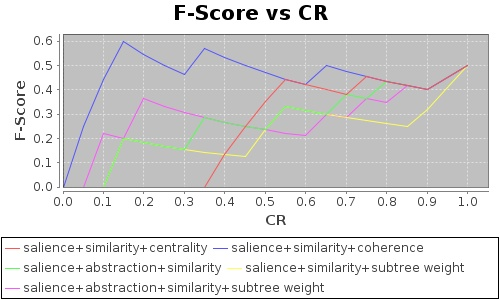
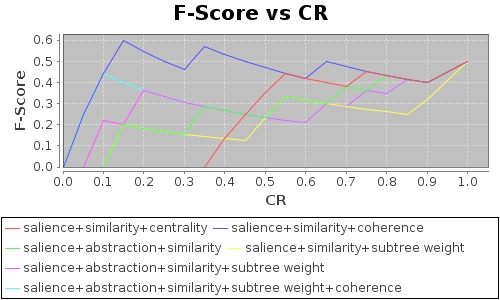
more combinations for rerank with similarity

diff --git a/OntologySummarization/src/fr/inria/wimmics/explanation/evaluation/test/DCGSurveyInference1Test.java b/OntologySummarization/src/fr/inria/wimmics/explanation/evaluation/test/DCGSurveyInference1Test.java
@@ -61,13 +61,14 @@ public class DCGSurveyInference1Test {
 	static String GEONAMES_SCHEMA_LOCATION = "rdf/ontology/geonames_ontology_v3.1.rdf";
 	
 	
-	static XYSeries soloCentralityNdcgCR = 								new XYSeries("salience");
-	static XYSeries soloReRankNdcgCR = 									new XYSeries("salience+coherence");
-	static XYSeries soloAbstractionNdcgCR = 							new XYSeries("salience+abstraction");
-	static XYSeries soloProofTreeSubtreeWeightNdcgCR = 					new XYSeries("salience+subtree weight");
-static XYSeries salienceAndAbstractAndSubtreeWeightNdcgCR = 			new XYSeries("salience+abstract+subtree weight");
-	static XYSeries salientAbstractionReRankNdcgCr = 					new XYSeries("salience+abstract+coherence");
-	static XYSeries salientAbstractionSubtreeReRankNdcgCr = 			new XYSeries("salience+abstract+subtree weight+coherence");
+	static XYSeries soloCentralityNdcgCR = 												new XYSeries("salience");
+	static XYSeries soloReRankNdcgCR = 													new XYSeries("salience+coherence");
+	static XYSeries soloAbstractionNdcgCR = 											new XYSeries("salience+abstraction");
+	static XYSeries soloProofTreeSubtreeWeightNdcgCR = 									new XYSeries("salience+subtree weight");
+	static XYSeries salienceAndAbstractAndSubtreeWeightNdcgCR = 						new XYSeries("salience+abstract+subtree weight");
+	static XYSeries salientAbstractionReRankNdcgCr = 									new XYSeries("salience+abstract+coherence");
+	static XYSeries salientAbstractionSubtreeReRankNdcgCr = 							new XYSeries("salience+abstract+subtree weight+coherence");
+	
 	
 	
 	
@@ -75,21 +76,26 @@ static XYSeries salienceAndAbstractAndSubtreeWeightNdcgCR = 			new XYSeries("sal
 	static XYSeries sentenceGraphNdcgCR = new XYSeries("sentence graph");
 	
 	
-	static XYSeries simCentralityNdcgCR = new XYSeries("salience+similarity");
-	static XYSeries simReRankNdcgCR = new XYSeries("salience+similarity+coherence");
-	static XYSeries simAbstractionNdcgCR = new XYSeries("salience+abstraction+similarity");
-	static XYSeries simProofTreeSubtreeWeightNdcgCR = new XYSeries("salience+similarity+subtree weight");
-	static XYSeries salienceAbstractSimilaritySubtreeNdcgCr = new XYSeries("salience+abstraction+similarity+subtree weight");
+	
+	//with similarity
+	static XYSeries simCentralityNdcgCR = 												new XYSeries("salience+similarity");
+	static XYSeries simReRankNdcgCR = 													new XYSeries("salience+similarity+coherence");
+	static XYSeries simAbstractionNdcgCR = 												new XYSeries("salience+abstraction+similarity");
+	static XYSeries simProofTreeSubtreeWeightNdcgCR = 									new XYSeries("salience+similarity+subtree weight");
+	static XYSeries salienceAbstractSimilaritySubtreeNdcgCr = 							new XYSeries("salience+abstraction+similarity+subtree weight");
+	static XYSeries salienceAbstractionSimilaritySubtreeWeightReRankNdcgCr = 			new XYSeries("salience+abstract+similarity+subtree weight+coherence");
 
 	
 
 	
 	
-	static XYSeries simCentralityFMeasureCR = new XYSeries("salience+similarity+centrality");
-	static XYSeries simReRankFMeasureCR = new XYSeries("salience+similarity+coherence");
-	static XYSeries simAbstractionFMeasureCR = new XYSeries("salience+abstraction+similarity");
-	static XYSeries simProofTreeSubtreeWeightFMeasureCR = new XYSeries("salience+similarity+subtree weight");
-	static XYSeries salienceAbstractSimilaritySubtreeFMeasureCR = new XYSeries("salience+abstraction+similarity+subtree weight");
+	static XYSeries simCentralityFMeasureCR = 											new XYSeries("salience+similarity+centrality");
+	static XYSeries simReRankFMeasureCR = 												new XYSeries("salience+similarity+coherence");
+	static XYSeries simAbstractionFMeasureCR = 											new XYSeries("salience+abstraction+similarity");
+	static XYSeries simProofTreeSubtreeWeightFMeasureCR = 								new XYSeries("salience+similarity+subtree weight");
+	static XYSeries salienceAbstractSimilaritySubtreeFMeasureCR = 						new XYSeries("salience+abstraction+similarity+subtree weight");
+	static XYSeries salienceAbstractionSimilaritySubtreeWeightReRankFMeasureCR = 		new XYSeries("salience+abstraction+similarity+subtree weight+coherence");
+	
 	
 	
 
@@ -175,6 +181,7 @@ static XYSeries salienceAndAbstractAndSubtreeWeightNdcgCR = 			new XYSeries("sal
 		dataset.addSeries(simProofTreeSubtreeWeightNdcgCR);
 		
 		dataset.addSeries(salienceAbstractSimilaritySubtreeNdcgCr);
+		dataset.addSeries(salienceAbstractionSimilaritySubtreeWeightReRankNdcgCr);
 		
 		// Generate the ndcg vs cr graph
 		JFreeChart chart = ChartFactory.createXYLineChart("nDCG vs CR",
@@ -210,6 +217,7 @@ static XYSeries salienceAndAbstractAndSubtreeWeightNdcgCR = 			new XYSeries("sal
 		fMeasureCRdataset.addSeries(simProofTreeSubtreeWeightFMeasureCR);
 		
 		fMeasureCRdataset.addSeries(salienceAbstractSimilaritySubtreeFMeasureCR);
+		fMeasureCRdataset.addSeries(salienceAbstractionSimilaritySubtreeWeightReRankFMeasureCR);
 		
 		
 		
@@ -1335,13 +1343,20 @@ static XYSeries salienceAndAbstractAndSubtreeWeightNdcgCR = 			new XYSeries("sal
 		return stmts;
 	}
 	
-	
 	public List<KnowledgeStatement> summaryBySalientAbstractionSimilaritySubtreeWeight(String justificationFile, String rootStmtId,
 			List<String> prefs, List<String> ontologyLocations, List<String> instanceLocations) throws Exception {
+		JustificationProcessor jp = new JustificationProcessor();
+		return summaryBySalientAbstractionSimilaritySubtreeWeight( justificationFile,  rootStmtId,
+				 prefs,  ontologyLocations,  instanceLocations,jp);
+	}
+	
+	
+	public List<KnowledgeStatement> summaryBySalientAbstractionSimilaritySubtreeWeight(String justificationFile, String rootStmtId,
+			List<String> prefs, List<String> ontologyLocations, List<String> instanceLocations, JustificationProcessor jp) throws Exception {
 		
 		
 		List<KnowledgeStatement> stmts = new ArrayList<KnowledgeStatement>();
-		JustificationProcessor jp = new JustificationProcessor();
+		
 		jp.parseJustificationFile(justificationFile,"http://www.example.com/" );
 		List<KnowledgeStatement> kStmts = jp.summarizeByProofTreeAbstraction(true, rootStmtId, prefs, ontologyLocations, instanceLocations);
 		
@@ -1520,6 +1535,70 @@ static XYSeries salienceAndAbstractAndSubtreeWeightNdcgCR = 			new XYSeries("sal
 		return stmts;
 	}	
 	
+	
+	
+	
+	public List<KnowledgeStatement> summaryBySalientAbstractionSimilaritySubtreeWeightReRank(String justificationFile, String rootStmtId,
+			List<String> prefs, List<String> ontologyLocations, List<String> instanceLocations) throws Exception {
+		
+		JustificationProcessor jp = new JustificationProcessor();
+		List<KnowledgeStatement> stmtsByScore = summaryBySalientAbstractionSimilaritySubtreeWeight(justificationFile,rootStmtId,prefs,ontologyLocations,instanceLocations,jp);
+		
+		//rerank
+		List<KnowledgeStatement> stmts = new ArrayList<KnowledgeStatement>();
+
+		List<KnowledgeStatement> kStmts = jp.reRankByCoherence(rootStmtId, stmtsByScore);
+		
+		for(int i=0;i<kStmts.size();i++) {
+			
+
+			KnowledgeStatement kst = kStmts.get(i);
+			String stmtId = kst.getStatement().getContext().stringValue();
+			if(stmtId.equals(rootStmtId)) continue;
+			
+			//System.out.println("Statement:"+kst.getStatement().toString());
+			//System.out.println("Score:"+kst.getScore());
+			//System.out.println(kst.getStatement().getContext().stringValue()+" "+i);
+			
+			
+			stmts.add(kst);
+		}
+
+		return stmts;
+	}	
+
+	@Test
+	public void testSalientAbstractionSimilaritySubtreeWeightReRank() throws Exception {
+		
+		System.out.println("NCG Salient Abstraction Similarity SubtreeWeight ReRank");
+		System.out.println("#####################################");			
+		System.out.println("F-Measure Salient Abstraction Similarity SubtreeWeight ReRank");
+		System.out.println("#####################################");		
+		
+		
+		String questionName = QUESTION2_NAME;
+		double th = getAvgGroundTruthRating(questionName);		
+		
+		List<RankEntry> reList = surveyProcessor.getAvgRankEntities(questionName);
+		List<KnowledgeStatement> kstmts = summaryBySalientAbstractionSimilaritySubtreeWeightReRank(FILE_JUSTIFICATION_INF, ROOT_STATEMENT, similarityConceptList, ontologyLocationList, instanceLocationList);
+		List<RankEntry> sList = new ArrayList<RankEntry>();
+	
+		//System.out.println(reList.size()+":"+kstmts.size());
+		for(KnowledgeStatement kst:kstmts) {
+			String name = getStatementName(kst.getStatement().getContext().stringValue());
+			RankEntry re = new RankEntry();
+			re.setName(name);
+			sList.add(re);
+		}
+		
+		
+		computeNDCGMeasure(reList, sList, salienceAbstractionSimilaritySubtreeWeightReRankNdcgCr);	
+		
+		EntryJudgmentDscCmp cmp = new EntryJudgmentDscCmp();
+		Collections.sort(reList,cmp);		
+		
+		computeFmeasure(reList, sList, salienceAbstractionSimilaritySubtreeWeightReRankFMeasureCR,th);
+	}
 	class EntryJudgmentDscCmp implements Comparator<RankEntry> {
 	
 		@Override

diff --git a/OntologySummarization/src/fr/inria/wimmics/explanation/JustificationProcessor.java b/OntologySummarization/src/fr/inria/wimmics/explanation/JustificationProcessor.java
@@ -543,15 +543,14 @@ public class JustificationProcessor {
 	public List<KnowledgeStatement> reRankByCoherence(String statementURI,List<KnowledgeStatement> kStatements) throws RepositoryException, MalformedQueryException, QueryEvaluationException {
 		
 		
-		System.out.println("Before reRanking:");
-		for(KnowledgeStatement kst:kStatements) {
-			System.out.println("Statement:"+kst.getStatement().toString());
-			System.out.println("Score:"+kst.getScore());
-			System.out.println("ReRanked Score:"+kst.getReRankedScore());
-			//System.out.println(kst.getStatement().getContext().stringValue()+" "+index++);
-
-			kst.setScore(kst.getReRankedScore());
-		}		
+//		System.out.println("Before reRanking:");
+//		for(KnowledgeStatement kst:kStatements) {
+//			System.out.println("Statement:"+kst.getStatement().toString());
+//			System.out.println("Score:"+kst.getScore());
+//			System.out.println("ReRanked Score:"+kst.getReRankedScore());
+//			//System.out.println(kst.getStatement().getContext().stringValue()+" "+index++);
+//
+//		}		
 		List<KnowledgeStatement> kStatementsReRanked = reRank(statementURI, kStatements);
 		Collections.sort(kStatementsReRanked, new Comparator<KnowledgeStatement>() {
 
@@ -563,12 +562,14 @@ public class JustificationProcessor {
 			}
 		});
 		
-		System.out.println("After reRanking:");
+//		System.out.println("After reRanking:");
 		for(KnowledgeStatement kst:kStatementsReRanked) {
-			System.out.println("Statement:"+kst.getStatement().toString());
-			System.out.println("Score:"+kst.getScore());
-			System.out.println("ReRanked Score:"+kst.getReRankedScore());
+//			System.out.println("Statement:"+kst.getStatement().toString());
+//			System.out.println("Score:"+kst.getScore());
+//			System.out.println("ReRanked Score:"+kst.getReRankedScore());
 			//System.out.println(kst.getStatement().getContext().stringValue()+" "+index++);
+			kst.setScore(kst.getReRankedScore());
+
 		}
 		return kStatementsReRanked;		
 	}
